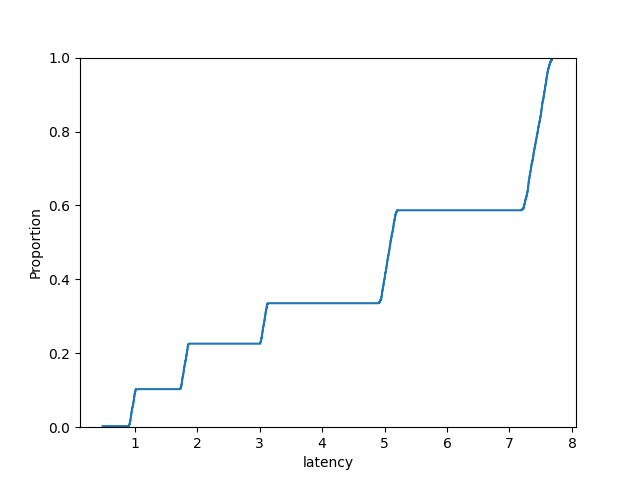
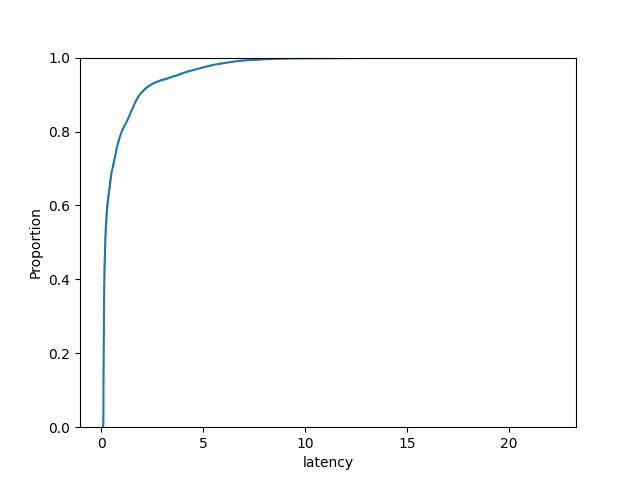
changes??

diff --git a/src/graphs/plot.py b/src/graphs/plot.py
@@ -7,30 +7,39 @@ import matplotlib.pyplot as plt
 import seaborn as sns
 import seaborn.objects as so
 
+# stats = pd.read_csv('./graphs/data/dummystats.csv', skipinitialspace=True)
 stats = pd.read_csv('./graphs/data/stats.csv', skipinitialspace=True)
-times = pd.read_csv('./graphs/data/times-05-03-2023-13:35:25.csv', skipinitialspace=True)
+# times = pd.read_csv('./graphs/data/times-dummy_16-03-2023-16:25:00.csv', skipinitialspace=True)
+# times = pd.read_csv('./graphs/data/times-dummy_27-03-2023-23:13:56.csv', skipinitialspace=True)
+times = pd.read_csv('./graphs/data/times-dummy_28-03-2023-12:24:40.csv', skipinitialspace=True)
 times['sent(s)'] = times['sent'] / 1_000_000_000
-times['latency'] = (times['rec'] - times['sent']) / 1_000_000_000
+times['latency'] = (times['rec'] - times['sent']) / 1_000_000
+stats['lost'] = 1. - (stats['rec'] / stats['sent'])
 
 print(stats)
 
-sns.scatterplot(x='throughput', y='goodput', data=stats, hue='nodes')
+'''
+sns.lineplot(x='throughput', y='goodput', data=stats, hue='nodes')
 plt.savefig('graphs/throughputgoodput.png')
 plt.show()
 
-sns.scatterplot(x='goodput', y='mean', data=stats, hue='nodes')
+sns.lineplot(x='throughput', y='lost', data=stats, hue='nodes')
+plt.savefig('graphs/throughputlost.png')
+plt.show()
+
+sns.lineplot(x='goodput', y='mean', data=stats, hue='nodes')
 plt.savefig('graphs/goodputlatency.png')
 plt.show()
 
 sns.ecdfplot(x='latency', data=times)
 plt.savefig('graphs/cumlatency.png')
 plt.show()
+'''
 
-sns.scatterplot(x='sent(s)', y='latency', data=times)
-plt.savefig('graphs/timelatency.png')
-plt.show()
-
-piv = pd.pivot_table(times, values="freq", index=["send(s)"], columns=["latency"], fill_value=0)
-sns.heatmap(data=piv, square=True)
-plt.savefig('graphs/heatmap.png')
+fig, ax = plt.subplots(1, 1, figsize=(10, 5), constrained_layout=True)
+# ax = sns.histplot(times, x="sent(s)", y="latency", binwidth=(0.05, 10), ax=ax)
+ax = sns.histplot(times, x="sent(s)", y="latency", bins = 50, ax=ax)
+ax.set(xlabel="Time (s)", xlim = (0,10), ylabel = "Latency (ms)")
+fig = ax
+plt.savefig('graphs/timelatencyheatmap.png')
 plt.show()

diff --git a/src/runDummyExperiments.py b/src/runDummyExperiments.py
@@ -19,16 +19,14 @@ def kill_processes():
 atexit.register(kill_processes)
 
 # create stats file if doesn't exist
-if not os.path.isfile('./graphs/data/stats.csv'):
-	with open('./graphs/data/stats.csv', 'w') as f:
+if not os.path.isfile('./graphs/data/dummystats.csv'):
+	with open('./graphs/data/dummystats.csv', 'w') as f:
 		f.write('name, chained, nodes, throughput, goodput, mean, sd, rec, sent\n')
 
+# nodeCounts = [4, 8]
 nodeCounts = [4]
-# nodeCounts = [1]
 # rates = [500, 1000, 2000, 3000, 4000, 5000]
 rates = [1000]
-# throughput = [2000]
-# rates = [10000]
 experiment_time = 10
 repeats = 5
 
@@ -37,12 +35,11 @@ test_iter = random.sample(list(itertools.product(rates, nodeCounts)) * repeats, 
 
 # randomise order of tests (generate permutations...)
 for (rate, n) in test_iter:
-	name = datetime.now().strftime("%d-%m-%Y-%H:%M:%S")
-	print(f"running test \"{name}\": rate = {rate}req/s, nodes = {n}")
+	name = datetime.now().strftime("dummy_%d-%m-%Y-%H:%M:%S")
 	for i in range(n):
-		processes.append(subprocess.Popen('ulimit -n 65536; eval $(opam env) OCAML_LANDMARKS=format=json,output=profile' + str(i) + '.json dune exec --build-dir=_build' + str(i) + ' -- ./main.exe -i ' + str(i) + ' -n' + str(n), shell=True, preexec_fn=os.setsid))
+		processes.append(subprocess.Popen('ulimit -n 65536; eval $(opam env) OCAML_LANDMARKS=format=json,output=profile' + str(i) + '.json dune exec --build-dir=_build' + str(i) + ' -- ./dummy.exe -i ' + str(i), shell=True, preexec_fn=os.setsid))
 	time.sleep(5)
-	subprocess.run('eval $(opam env) OCAML_LANDMARKS=output=profile dune exec -- ./live_test.exe ' + str(n) + ' -t ' + str(experiment_time) + ' -r ' + str(rate) + ' --times "./graphs/data/times-' + name + '.csv" --stats "./graphs/data/stats.csv"', shell=True)
+	subprocess.run('eval $(opam env) OCAML_LANDMARKS=output=profile dune exec -- ./live_test.exe ' + str(n) + ' -t ' + str(experiment_time) + ' -r ' + str(rate) + ' --times "./graphs/data/times-' + name + '.csv" --stats "./graphs/data/dummystats.csv"', shell=True)
 	time.sleep(1)
 	kill_processes()
 	processes = []
